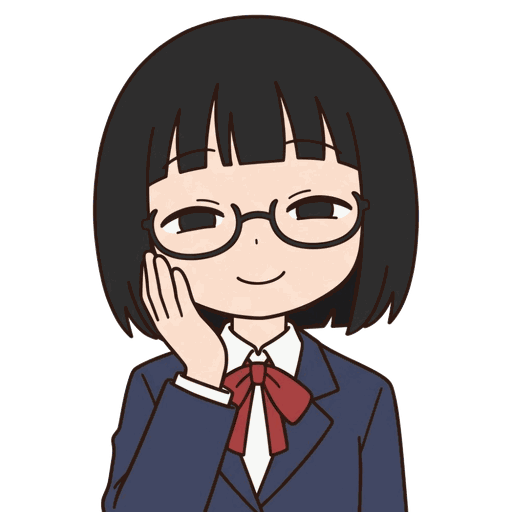
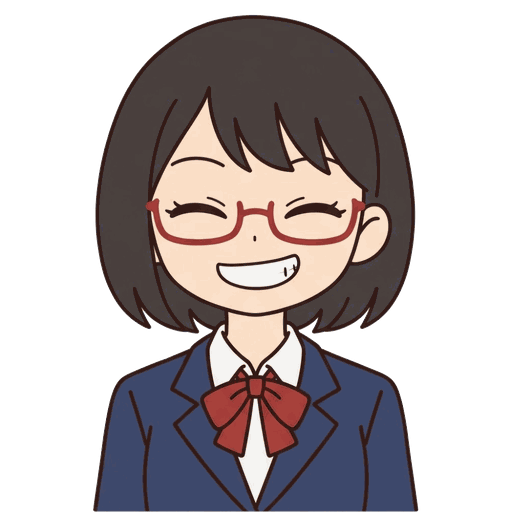
ナオの 立ち絵を 差し替え、セリフ窓を 3行ぶんに、連鎖の 表示を 上へ
- ナオ：新しい 絵（赤い メガネ）の 表情4つ
- セリフ窓：下半分 → 3行ぶんの 高さ。立ち絵は 窓の 上ふちに 立ち、すこし 大きく
- 「2れんさ！」などの 大きな 表示：盤の 上 → 上の みどりの ところ（そろった 猫を かくさない）
- 「めあて たっせい！」→「もくひょう たっせい！」

Claude-Session: https://claude.ai/code/session_01Bo2xWdtDrEkLvj3EeV6Q3Z

diff --git a/app/story.css b/app/story.css
@@ -121,6 +121,9 @@
    ストーリー画面
    ========================================================= */
 .story-play {
+  /* セリフ窓の 高さ：3行ぶん（文字 × 行の 高さ 1.7 × 3行 ＋ 上下の よはく・わく） */
+  --win-h: calc(var(--fs-message, 24px) * 1.7 * 3 + 82px);
+  --win-bottom: 12px;
   position: fixed;
   inset: 0;
   z-index: 210;
@@ -174,11 +177,11 @@
 /* 上半身の 正方形。セリフ窓の 上ふちに 下を そろえる（すこし 窓の うしろに もぐらせる）。
    左右の 絵は まんなかで すこし 重なる（話している 人が 手前）。 */
 .story-fig {
-  --fig: min(60cqw, 46cqh);
+  --fig: min(62cqw, 52cqh);
   --drop: 0;   /* 背の 低い 人ほど 大きい：絵を この わりあい だけ 窓の うしろへ しずめる（cast の height） */
   --size: 1;   /* 絵の 大きさ（cast の size） */
   position: absolute;
-  bottom: calc(50% - 10px);
+  bottom: calc(var(--win-bottom) + var(--win-h) - 10px);
   width: var(--fig);
   height: var(--fig);
 }
@@ -256,14 +259,14 @@
 .story-play.is-picture .story-window,
 .story-play.is-picture .story-figs { opacity: 0; pointer-events: none; transition: opacity .35s ease; }
 
-/* ---------- セリフ窓（下半分） ---------- */
+/* ---------- セリフ窓（下に 3行ぶん） ---------- */
 .story-window {
   position: absolute;
   z-index: 2;
   left: 10px;
   right: 10px;
-  top: 50%;
-  bottom: 12px;
+  bottom: var(--win-bottom);
+  height: var(--win-h);
   padding: 30px 20px 40px;
   background: var(--c-bg, #fff8ec);
   color: var(--c-text, #1b1b1b);
@@ -409,10 +412,10 @@
   .story-btn { min-height: 72px; border-width: 4px; border-radius: 18px; }
   .story-btn__icon { display: none; }
 
+  .story-play { --win-h: calc(var(--fs-message, 16px) * 1.5 * 3 + 52px); --win-bottom: 8px; }
   .story-window {
     left: 8px;
     right: 8px;
-    bottom: 8px;
     padding: 20px 14px 24px;
     border-width: 4px;
     border-radius: 18px;

diff --git a/app/style.css b/app/style.css
@@ -658,7 +658,7 @@ body {
   display: flex;
   align-items: flex-start;
   justify-content: center;
-  padding-top: 26dvh;
+  padding-top: max(6px, 1.2dvh);   /* 上の みどりの ところに 出す（猫の そろった ところを かくさない） */
   z-index: 50;
   pointer-events: none;
 }
@@ -667,12 +667,12 @@ body {
 
 .bignews__text {
   margin: 0;
-  padding: 14px 26px;
+  padding: 6px 22px;
   text-align: center;
-  font-size: clamp(36px, 10vw, 76px);
+  font-size: clamp(28px, 7.5vw, 52px);
   color: #ffffff;
   background: var(--c-ok);
-  border: 8px solid #ffffff;
+  border: 5px solid #ffffff;
   border-radius: 28px;
   box-shadow: 0 10px 0 rgba(0, 0, 0, .3);
   animation: bignews-in .5s ease both;
@@ -727,8 +727,8 @@ body {
   .end__actions .btn, .rest .btn { min-height: 52px; }
   .end__stars { font-size: 36px; }
 
-  .bignews { padding-top: 18dvh; }
-  .bignews__text { font-size: 34px; border-width: 5px; padding: 8px 18px; }
+  .bignews { padding-top: 4px; }
+  .bignews__text { font-size: 24px; border-width: 4px; padding: 3px 14px; }
 }
 
 /* アニメーションが にがてな ひとの ために */

diff --git a/app/main.js b/app/main.js
@@ -1032,7 +1032,7 @@
     const quota = levelQuota(level);
     gaugeEl.style.width = Math.min(100, Math.round(rescued / quota * 100)) + '%';
     quotaEl.textContent = rescued >= quota
-      ? 'めあて たっせい！'
+      ? 'もくひょう たっせい！'
       : 'あと ' + (quota - rescued) + 'ひき にがすと クリア';
     movesEl.textContent = 'のこり ' + movesLeft + 'て';
     movesEl.classList.toggle('is-low', movesLeft <= 3);
